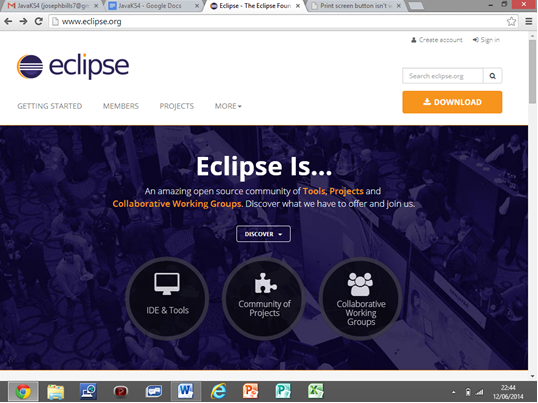
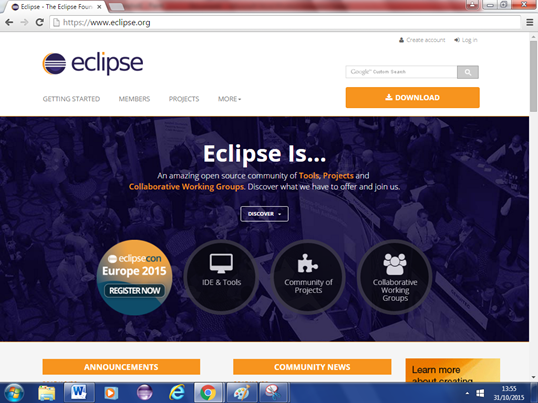
changes screenshots to not have awful tabs open

diff --git a/.c9/metadata/workspace/styles/index.scss b/.c9/metadata/workspace/styles/index.scss
@@ -1,0 +1,1 @@
+{"filter":false,"title":"index.scss","tooltip":"/styles/index.scss","undoManager":{"mark":-1,"position":-1,"stack":[]},"ace":{"folds":[],"scrolltop":3240,"scrollleft":0,"selection":{"start":{"row":0,"column":0},"end":{"row":0,"column":0},"isBackwards":false},"options":{"guessTabSize":true,"useWrapMode":false,"wrapToView":true},"firstLineState":{"row":230,"state":"start","mode":"ace/mode/scss"}},"timestamp":1408192288473,"hash":"076abdf336d47e67d0104e0f8e8e0f36cf829f92"}

diff --git a/.c9/metadata/workspace/src/index.html b/.c9/metadata/workspace/src/index.html
@@ -1,0 +1,1 @@
+{"filter":false,"title":"index.html","tooltip":"/src/index.html","undoManager":{"mark":-1,"position":-1,"stack":[]},"ace":{"folds":[],"scrolltop":0,"scrollleft":0,"selection":{"start":{"row":0,"column":0},"end":{"row":0,"column":0},"isBackwards":false},"options":{"guessTabSize":true,"useWrapMode":false,"wrapToView":true},"firstLineState":0},"timestamp":1446299514792,"hash":"33d2f9c46fa179fea69bf21c0491e3955c0bfa29"}

diff --git a/.c9/metadata/workspace/src/en/Chapter-I/Part I: Installation.md b/.c9/metadata/workspace/src/en/Chapter-I/Part I: Installation.md
@@ -1,0 +1,1 @@
+{"filter":false,"title":"Part I: Installation.md","tooltip":"/src/en/Chapter-I/Part I: Installation.md","undoManager":{"mark":100,"position":100,"stack":[[{"start":{"row":15,"column":91},"end":{"row":15,"column":92},"action":"remove","lines":["r"],"id":88}],[{"start":{"row":15,"column":90},"end":{"row":15,"column":91},"action":"remove","lines":["w"],"id":89}],[{"start":{"row":15,"column":89},"end":{"row":15,"column":90},"action":"remove","lines":[" "],"id":90}],[{"start":{"row":15,"column":88},"end":{"row":15,"column":89},"action":"remove","lines":["f"],"id":91}],[{"start":{"row":15,"column":87},"end":{"row":15,"column":88},"action":"remove","lines":["o"],"id":92}],[{"start":{"row":15,"column":86},"end":{"row":15,"column":87},"action":"remove","lines":[" "],"id":93}],[{"start":{"row":15,"column":85},"end":{"row":15,"column":86},"action":"remove","lines":["e"],"id":94}],[{"start":{"row":15,"column":84},"end":{"row":15,"column":85},"action":"remove","lines":["m"],"id":95}],[{"start":{"row":15,"column":83},"end":{"row":15,"column":84},"action":"remove","lines":["i"],"id":96}],[{"start":{"row":15,"column":82},"end":{"row":15,"column":83},"action":"remove","lines":["t"],"id":97}],[{"start":{"row":15,"column":81},"end":{"row":15,"column":82},"action":"remove","lines":[" "],"id":98}],[{"start":{"row":15,"column":80},"end":{"row":15,"column":81},"action":"remove","lines":["e"],"id":99}],[{"start":{"row":15,"column":79},"end":{"row":15,"column":80},"action":"remove","lines":["h"],"id":100}],[{"start":{"row":15,"column":78},"end":{"row":15,"column":79},"action":"remove","lines":["t"],"id":101}],[{"start":{"row":15,"column":77},"end":{"row":15,"column":78},"action":"remove","lines":[" "],"id":102}],[{"start":{"row":15,"column":76},"end":{"row":15,"column":77},"action":"remove","lines":["t"],"id":103}],[{"start":{"row":15,"column":75},"end":{"row":15,"column":76},"action":"remove","lines":["a"],"id":104}],[{"start":{"row":15,"column":74},"end":{"row":15,"column":75},"action":"remove","lines":[" "],"id":105}],[{"start":{"row":15,"column":73},"end":{"row":15,"column":74},"action":"remove","lines":["n"],"id":106}],[{"start":{"row":15,"column":72},"end":{"row":15,"column":73},"action":"remove","lines":["o"],"id":107}],[{"start":{"row":15,"column":71},"end":{"row":15,"column":72},"action":"remove","lines":["i"],"id":108}],[{"start":{"row":15,"column":70},"end":{"row":15,"column":71},"action":"remove","lines":["s"],"id":109}],[{"start":{"row":15,"column":69},"end":{"row":15,"column":70},"action":"remove","lines":["r"],"id":110}],[{"start":{"row":15,"column":68},"end":{"row":15,"column":69},"action":"remove","lines":["e"],"id":111}],[{"start":{"row":15,"column":67},"end":{"row":15,"column":68},"action":"remove","lines":["v"],"id":112}],[{"start":{"row":15,"column":66},"end":{"row":15,"column":67},"action":"remove","lines":[" "],"id":113}],[{"start":{"row":15,"column":65},"end":{"row":15,"column":66},"action":"remove","lines":["t"],"id":114}],[{"start":{"row":15,"column":64},"end":{"row":15,"column":65},"action":"remove","lines":["s"],"id":115}],[{"start":{"row":15,"column":63},"end":{"row":15,"column":64},"action":"remove","lines":["e"],"id":116}],[{"start":{"row":15,"column":62},"end":{"row":15,"column":63},"action":"remove","lines":["t"],"id":117}],[{"start":{"row":15,"column":61},"end":{"row":15,"column":62},"action":"remove","lines":["a"],"id":118}],[{"start":{"row":15,"column":60},"end":{"row":15,"column":61},"action":"remove","lines":["l"],"id":119}],[{"start":{"row":15,"column":59},"end":{"row":15,"column":60},"action":"remove","lines":[" "],"id":120}],[{"start":{"row":15,"column":58},"end":{"row":15,"column":59},"action":"remove","lines":["e"],"id":121}],[{"start":{"row":15,"column":57},"end":{"row":15,"column":58},"action":"remove","lines":["h"],"id":122}],[{"start":{"row":15,"column":56},"end":{"row":15,"column":57},"action":"remove","lines":["t"],"id":123}],[{"start":{"row":15,"column":55},"end":{"row":15,"column":56},"action":"remove","lines":[" "],"id":124}],[{"start":{"row":15,"column":54},"end":{"row":15,"column":55},"action":"remove","lines":[","],"id":125}],[{"start":{"row":23,"column":69},"end":{"row":23,"column":70},"action":"insert","lines":[","],"id":126}],[{"start":{"row":23,"column":70},"end":{"row":23,"column":71},"action":"insert","lines":[" "],"id":127}],[{"start":{"row":23,"column":71},"end":{"row":23,"column":72},"action":"insert","lines":["o"],"id":128}],[{"start":{"row":23,"column":72},"end":{"row":23,"column":73},"action":"insert","lines":["r"],"id":129}],[{"start":{"row":23,"column":73},"end":{"row":23,"column":74},"action":"insert","lines":[" "],"id":130}],[{"start":{"row":23,"column":74},"end":{"row":23,"column":75},"action":"insert","lines":["d"],"id":131}],[{"start":{"row":23,"column":75},"end":{"row":23,"column":76},"action":"insert","lines":["o"],"id":132}],[{"start":{"row":23,"column":76},"end":{"row":23,"column":77},"action":"insert","lines":[" "],"id":133}],[{"start":{"row":23,"column":77},"end":{"row":23,"column":78},"action":"insert","lines":["t"],"id":134}],[{"start":{"row":23,"column":78},"end":{"row":23,"column":79},"action":"insert","lines":["h"],"id":135}],[{"start":{"row":23,"column":79},"end":{"row":23,"column":80},"action":"insert","lines":["e"],"id":136}],[{"start":{"row":23,"column":80},"end":{"row":23,"column":81},"action":"insert","lines":[" "],"id":137}],[{"start":{"row":23,"column":81},"end":{"row":23,"column":82},"action":"insert","lines":["s"],"id":138}],[{"start":{"row":23,"column":82},"end":{"row":23,"column":83},"action":"insert","lines":["a"],"id":139}],[{"start":{"row":23,"column":83},"end":{"row":23,"column":84},"action":"insert","lines":["m"],"id":140}],[{"start":{"row":23,"column":84},"end":{"row":23,"column":85},"action":"insert","lines":["e"],"id":141}],[{"start":{"row":23,"column":85},"end":{"row":23,"column":86},"action":"insert","lines":[" "],"id":142}],[{"start":{"row":23,"column":86},"end":{"row":23,"column":87},"action":"insert","lines":["f"],"id":143}],[{"start":{"row":23,"column":87},"end":{"row":23,"column":88},"action":"insert","lines":["o"],"id":144}],[{"start":{"row":23,"column":88},"end":{"row":23,"column":89},"action":"insert","lines":["r"],"id":145}],[{"start":{"row":23,"column":89},"end":{"row":23,"column":90},"action":"insert","lines":[" "],"id":146}],[{"start":{"row":23,"column":90},"end":{"row":23,"column":91},"action":"insert","lines":["w"],"id":147}],[{"start":{"row":23,"column":91},"end":{"row":23,"column":92},"action":"insert","lines":["h"],"id":148}],[{"start":{"row":23,"column":92},"end":{"row":23,"column":93},"action":"insert","lines":["i"],"id":149}],[{"start":{"row":23,"column":93},"end":{"row":23,"column":94},"action":"insert","lines":["c"],"id":150}],[{"start":{"row":23,"column":94},"end":{"row":23,"column":95},"action":"insert","lines":["h"],"id":151}],[{"start":{"row":23,"column":95},"end":{"row":23,"column":96},"action":"insert","lines":["e"],"id":152}],[{"start":{"row":23,"column":96},"end":{"row":23,"column":97},"action":"insert","lines":["v"],"id":153}],[{"start":{"row":23,"column":97},"end":{"row":23,"column":98},"action":"insert","lines":["e"],"id":154}],[{"start":{"row":23,"column":98},"end":{"row":23,"column":99},"action":"insert","lines":["r"],"id":155}],[{"start":{"row":23,"column":99},"end":{"row":23,"column":100},"action":"insert","lines":[" "],"id":156}],[{"start":{"row":23,"column":100},"end":{"row":23,"column":101},"action":"insert","lines":["c"],"id":157}],[{"start":{"row":23,"column":101},"end":{"row":23,"column":102},"action":"insert","lines":["o"],"id":158}],[{"start":{"row":23,"column":102},"end":{"row":23,"column":103},"action":"insert","lines":["u"],"id":159}],[{"start":{"row":23,"column":103},"end":{"row":23,"column":104},"action":"insert","lines":["n"],"id":160}],[{"start":{"row":23,"column":104},"end":{"row":23,"column":105},"action":"insert","lines":["t"],"id":161}],[{"start":{"row":23,"column":105},"end":{"row":23,"column":106},"action":"insert","lines":["r"],"id":162}],[{"start":{"row":23,"column":106},"end":{"row":23,"column":107},"action":"insert","lines":["y"],"id":163}],[{"start":{"row":23,"column":107},"end":{"row":23,"column":108},"action":"insert","lines":[" "],"id":164}],[{"start":{"row":23,"column":108},"end":{"row":23,"column":109},"action":"insert","lines":["t"],"id":165}],[{"start":{"row":23,"column":108},"end":{"row":23,"column":109},"action":"remove","lines":["t"],"id":166}],[{"start":{"row":23,"column":108},"end":{"row":23,"column":109},"action":"insert","lines":["y"],"id":167}],[{"start":{"row":23,"column":109},"end":{"row":23,"column":110},"action":"insert","lines":["o"],"id":168}],[{"start":{"row":23,"column":110},"end":{"row":23,"column":111},"action":"insert","lines":["u"],"id":169}],[{"start":{"row":23,"column":111},"end":{"row":23,"column":112},"action":"insert","lines":[" "],"id":170}],[{"start":{"row":23,"column":112},"end":{"row":23,"column":113},"action":"insert","lines":["a"],"id":171}],[{"start":{"row":23,"column":113},"end":{"row":23,"column":114},"action":"insert","lines":["r"],"id":172}],[{"start":{"row":23,"column":114},"end":{"row":23,"column":115},"action":"insert","lines":["e"],"id":173}],[{"start":{"row":23,"column":115},"end":{"row":23,"column":116},"action":"insert","lines":[" "],"id":174}],[{"start":{"row":23,"column":116},"end":{"row":23,"column":117},"action":"insert","lines":["i"],"id":175}],[{"start":{"row":23,"column":117},"end":{"row":23,"column":118},"action":"insert","lines":["n"],"id":176}],[{"start":{"row":17,"column":60},"end":{"row":17,"column":61},"action":"remove","lines":["e"],"id":177},{"start":{"row":17,"column":60},"end":{"row":17,"column":61},"action":"insert","lines":["E"]}],[{"start":{"row":15,"column":11},"end":{"row":15,"column":12},"action":"remove","lines":["e"],"id":178},{"start":{"row":15,"column":11},"end":{"row":15,"column":12},"action":"insert","lines":["E"]}],[{"start":{"row":15,"column":10},"end":{"row":15,"column":11},"action":"remove","lines":["\""],"id":179},{"start":{"row":15,"column":10},"end":{"row":15,"column":11},"action":"insert","lines":["*"]}],[{"start":{"row":15,"column":11},"end":{"row":15,"column":12},"action":"insert","lines":["*"],"id":180}],[{"start":{"row":15,"column":32},"end":{"row":15,"column":33},"action":"remove","lines":["\""],"id":181},{"start":{"row":15,"column":32},"end":{"row":15,"column":33},"action":"insert","lines":["*"]}],[{"start":{"row":15,"column":33},"end":{"row":15,"column":34},"action":"insert","lines":["*"],"id":182}],[{"start":{"row":23,"column":26},"end":{"row":23,"column":27},"action":"remove","lines":["\""],"id":183}],[{"start":{"row":23,"column":26},"end":{"row":23,"column":27},"action":"insert","lines":["*"],"id":184}],[{"start":{"row":23,"column":27},"end":{"row":23,"column":28},"action":"insert","lines":["*"],"id":185}],[{"start":{"row":23,"column":69},"end":{"row":23,"column":70},"action":"remove","lines":["\""],"id":186}],[{"start":{"row":23,"column":69},"end":{"row":23,"column":70},"action":"insert","lines":["*"],"id":187}],[{"start":{"row":23,"column":70},"end":{"row":23,"column":71},"action":"insert","lines":["*"],"id":188}]]},"ace":{"folds":[],"scrolltop":180,"scrollleft":0,"selection":{"start":{"row":23,"column":71},"end":{"row":23,"column":71},"isBackwards":false},"options":{"guessTabSize":true,"useWrapMode":false,"wrapToView":true},"firstLineState":{"row":11,"state":"start","mode":"ace/mode/markdown"}},"timestamp":1446301333416,"hash":"1e893a8e1dbcdfaf5ad542427903642ae9e71ca9"}

diff --git a/.c9/metadata/workspace/src/en/Chapter-I/Part IV: Arithmetic.md b/.c9/metadata/workspace/src/en/Chapter-I/Part IV: Arithmetic.md
@@ -1,0 +1,1 @@
+{"filter":false,"title":"Part IV: Arithmetic.md","tooltip":"/src/en/Chapter-I/Part IV: Arithmetic.md","undoManager":{"mark":57,"position":57,"stack":[[{"group":"doc","deltas":[{"action":"removeText","range":{"start":{"row":158,"column":1},"end":{"row":158,"column":22}},"text":"So, what is a method?"},{"action":"insertText","range":{"start":{"row":158,"column":1},"end":{"row":158,"column":2}},"text":"L"}]}],[{"group":"doc","deltas":[{"action":"insertText","range":{"start":{"row":158,"column":2},"end":{"row":158,"column":3}},"text":"e"}]}],[{"group":"doc","deltas":[{"action":"insertText","range":{"start":{"row":158,"column":3},"end":{"row":158,"column":4}},"text":"t"}]}],[{"group":"doc","deltas":[{"action":"insertText","range":{"start":{"row":158,"column":4},"end":{"row":158,"column":5}},"text":"'"}]}],[{"group":"doc","deltas":[{"action":"insertText","range":{"start":{"row":158,"column":5},"end":{"row":158,"column":6}},"text":"s"}]}],[{"group":"doc","deltas":[{"action":"insertText","range":{"start":{"row":158,"column":6},"end":{"row":158,"column":7}},"text":" "}]}],[{"group":"doc","deltas":[{"action":"insertText","range":{"start":{"row":158,"column":7},"end":{"row":158,"column":8}},"text":"g"}]}],[{"group":"doc","deltas":[{"action":"insertText","range":{"start":{"row":158,"column":8},"end":{"row":158,"column":9}},"text":"o"}]}],[{"group":"doc","deltas":[{"action":"insertText","range":{"start":{"row":158,"column":9},"end":{"row":158,"column":10}},"text":" "}]}],[{"group":"doc","deltas":[{"action":"insertText","range":{"start":{"row":158,"column":10},"end":{"row":158,"column":11}},"text":"f"}]}],[{"group":"doc","deltas":[{"action":"insertText","range":{"start":{"row":158,"column":11},"end":{"row":158,"column":12}},"text":"i"}]}],[{"group":"doc","deltas":[{"action":"insertText","range":{"start":{"row":158,"column":12},"end":{"row":158,"column":13}},"text":"n"}]}],[{"group":"doc","deltas":[{"action":"insertText","range":{"start":{"row":158,"column":13},"end":{"row":158,"column":14}},"text":"d"}]}],[{"group":"doc","deltas":[{"action":"insertText","range":{"start":{"row":158,"column":14},"end":{"row":158,"column":15}},"text":" "}]}],[{"group":"doc","deltas":[{"action":"insertText","range":{"start":{"row":158,"column":15},"end":{"row":158,"column":16}},"text":"a"}]}],[{"group":"doc","deltas":[{"action":"insertText","range":{"start":{"row":158,"column":16},"end":{"row":158,"column":17}},"text":"r"}]}],[{"group":"doc","deltas":[{"action":"insertText","range":{"start":{"row":158,"column":17},"end":{"row":158,"column":18}},"text":"r"}]}],[{"group":"doc","deltas":[{"action":"insertText","range":{"start":{"row":158,"column":18},"end":{"row":158,"column":19}},"text":"a"}]}],[{"group":"doc","deltas":[{"action":"insertText","range":{"start":{"row":158,"column":19},"end":{"row":158,"column":20}},"text":"y"}]}],[{"group":"doc","deltas":[{"action":"insertText","range":{"start":{"row":158,"column":20},"end":{"row":158,"column":21}},"text":"s"}]}],[{"group":"doc","deltas":[{"action":"removeText","range":{"start":{"row":158,"column":20},"end":{"row":158,"column":21}},"text":"s"}]}],[{"group":"doc","deltas":[{"action":"removeText","range":{"start":{"row":158,"column":19},"end":{"row":158,"column":20}},"text":"y"}]}],[{"group":"doc","deltas":[{"action":"removeText","range":{"start":{"row":158,"column":18},"end":{"row":158,"column":19}},"text":"a"}]}],[{"group":"doc","deltas":[{"action":"removeText","range":{"start":{"row":158,"column":17},"end":{"row":158,"column":18}},"text":"r"},{"action":"removeText","range":{"start":{"row":158,"column":16},"end":{"row":158,"column":17}},"text":"r"}]}],[{"group":"doc","deltas":[{"action":"removeText","range":{"start":{"row":158,"column":15},"end":{"row":158,"column":16}},"text":"a"},{"action":"removeText","range":{"start":{"row":158,"column":14},"end":{"row":158,"column":15}},"text":" "}]}],[{"group":"doc","deltas":[{"action":"removeText","range":{"start":{"row":158,"column":13},"end":{"row":158,"column":14}},"text":"d"}]}],[{"group":"doc","deltas":[{"action":"removeText","range":{"start":{"row":158,"column":12},"end":{"row":158,"column":13}},"text":"n"}]}],[{"group":"doc","deltas":[{"action":"removeText","range":{"start":{"row":158,"column":11},"end":{"row":158,"column":12}},"text":"i"}]}],[{"group":"doc","deltas":[{"action":"removeText","range":{"start":{"row":158,"column":10},"end":{"row":158,"column":11}},"text":"f"}]}],[{"group":"doc","deltas":[{"action":"insertText","range":{"start":{"row":158,"column":10},"end":{"row":158,"column":11}},"text":"s"}]}],[{"group":"doc","deltas":[{"action":"insertText","range":{"start":{"row":158,"column":11},"end":{"row":158,"column":12}},"text":"e"}]}],[{"group":"doc","deltas":[{"action":"insertText","range":{"start":{"row":158,"column":12},"end":{"row":158,"column":13}},"text":"e"}]}],[{"group":"doc","deltas":[{"action":"insertText","range":{"start":{"row":158,"column":13},"end":{"row":158,"column":14}},"text":" "}]}],[{"group":"doc","deltas":[{"action":"insertText","range":{"start":{"row":158,"column":14},"end":{"row":158,"column":15}},"text":"s"}]}],[{"group":"doc","deltas":[{"action":"insertText","range":{"start":{"row":158,"column":15},"end":{"row":158,"column":16}},"text":"o"}]}],[{"group":"doc","deltas":[{"action":"insertText","range":{"start":{"row":158,"column":16},"end":{"row":158,"column":17}},"text":"e"}]}],[{"group":"doc","deltas":[{"action":"insertText","range":{"start":{"row":158,"column":17},"end":{"row":158,"column":18}},"text":"m"}]}],[{"group":"doc","deltas":[{"action":"insertText","range":{"start":{"row":158,"column":18},"end":{"row":158,"column":19}},"text":" "}]}],[{"group":"doc","deltas":[{"action":"removeText","range":{"start":{"row":158,"column":18},"end":{"row":158,"column":19}},"text":" "}]}],[{"group":"doc","deltas":[{"action":"removeText","range":{"start":{"row":158,"column":17},"end":{"row":158,"column":18}},"text":"m"}]}],[{"group":"doc","deltas":[{"action":"removeText","range":{"start":{"row":158,"column":16},"end":{"row":158,"column":17}},"text":"e"}]}],[{"group":"doc","deltas":[{"action":"insertText","range":{"start":{"row":158,"column":16},"end":{"row":158,"column":17}},"text":"m"}]}],[{"group":"doc","deltas":[{"action":"insertText","range":{"start":{"row":158,"column":17},"end":{"row":158,"column":18}},"text":"e"}]}],[{"group":"doc","deltas":[{"action":"insertText","range":{"start":{"row":158,"column":18},"end":{"row":158,"column":19}},"text":" "}]}],[{"group":"doc","deltas":[{"action":"insertText","range":{"start":{"row":158,"column":19},"end":{"row":158,"column":20}},"text":"a"}]}],[{"group":"doc","deltas":[{"action":"insertText","range":{"start":{"row":158,"column":20},"end":{"row":158,"column":21}},"text":"r"}]}],[{"group":"doc","deltas":[{"action":"insertText","range":{"start":{"row":158,"column":21},"end":{"row":158,"column":22}},"text":"r"}]}],[{"group":"doc","deltas":[{"action":"insertText","range":{"start":{"row":158,"column":22},"end":{"row":158,"column":23}},"text":"s"}]}],[{"group":"doc","deltas":[{"action":"removeText","range":{"start":{"row":158,"column":22},"end":{"row":158,"column":23}},"text":"s"}]}],[{"group":"doc","deltas":[{"action":"insertText","range":{"start":{"row":158,"column":22},"end":{"row":158,"column":23}},"text":"a"}]}],[{"group":"doc","deltas":[{"action":"insertText","range":{"start":{"row":158,"column":23},"end":{"row":158,"column":24}},"text":"y"}]}],[{"group":"doc","deltas":[{"action":"insertText","range":{"start":{"row":158,"column":24},"end":{"row":158,"column":25}},"text":"s"}]}],[{"group":"doc","deltas":[{"action":"removeText","range":{"start":{"row":158,"column":44},"end":{"row":158,"column":51}},"text":"Methods"},{"action":"insertText","range":{"start":{"row":158,"column":44},"end":{"row":158,"column":45}},"text":"A"}]}],[{"group":"doc","deltas":[{"action":"insertText","range":{"start":{"row":158,"column":45},"end":{"row":158,"column":46}},"text":"r"}]}],[{"group":"doc","deltas":[{"action":"insertText","range":{"start":{"row":158,"column":46},"end":{"row":158,"column":47}},"text":"r"}]}],[{"group":"doc","deltas":[{"action":"insertText","range":{"start":{"row":158,"column":47},"end":{"row":158,"column":48}},"text":"a"}]}],[{"group":"doc","deltas":[{"action":"insertText","range":{"start":{"row":158,"column":48},"end":{"row":158,"column":49}},"text":"y"}]}],[{"group":"doc","deltas":[{"action":"insertText","range":{"start":{"row":158,"column":49},"end":{"row":158,"column":50}},"text":"s"}]}]]},"ace":{"folds":[],"scrolltop":2016,"scrollleft":0,"selection":{"start":{"row":158,"column":50},"end":{"row":158,"column":50},"isBackwards":false},"options":{"guessTabSize":true,"useWrapMode":false,"wrapToView":true},"firstLineState":{"row":143,"state":"start","mode":"ace/mode/markdown"}},"timestamp":1408453059238,"hash":"5e87ff05850d68544198d9f5469a1396c665f632"}

diff --git a/.c9/metadata/workspace/src/en/Chapter-I/Part III: Variables.md b/.c9/metadata/workspace/src/en/Chapter-I/Part III: Variables.md
@@ -1,0 +1,1 @@
+{"filter":false,"title":"Part III: Variables.md","tooltip":"/src/en/Chapter-I/Part III: Variables.md","undoManager":{"mark":0,"position":0,"stack":[[{"group":"doc","deltas":[{"action":"removeText","range":{"start":{"row":59,"column":0},"end":{"row":59,"column":13}},"text":"You can also "},{"action":"removeLines","range":{"start":{"row":46,"column":0},"end":{"row":59,"column":0}},"nl":"\n","lines":["","```java","int age = 13;","String ageAsString = Integer.toString(age);","```","","You can convert a string to an integer by using `Integer.parseInt()`:","","```java","String ageAsString = \"13\";","int age = Integer.parseInt(ageAsString);","```",""]},{"action":"removeText","range":{"start":{"row":45,"column":8},"end":{"row":45,"column":70}},"text":"convert an integer to a string, by using `Integer.toString()`:"},{"action":"removeText","range":{"start":{"row":45,"column":8},"end":{"row":46,"column":0}},"text":"\n"},{"action":"insertText","range":{"start":{"row":52,"column":53},"end":{"row":52,"column":57}},"text":"int "},{"action":"removeText","range":{"start":{"row":52,"column":64},"end":{"row":52,"column":65}},"text":" "},{"action":"insertText","range":{"start":{"row":52,"column":64},"end":{"row":53,"column":0}},"text":"\n"},{"action":"insertLines","range":{"start":{"row":53,"column":0},"end":{"row":54,"column":0}},"lines":[""]},{"action":"insertText","range":{"start":{"row":54,"column":0},"end":{"row":54,"column":65}},"text":"You will learn how to convert between variables at a later point."},{"action":"removeText","range":{"start":{"row":63,"column":0},"end":{"row":63,"column":21}},"text":"As with an integer, y"},{"action":"insertText","range":{"start":{"row":63,"column":0},"end":{"row":63,"column":1}},"text":"Y"},{"action":"removeText","range":{"start":{"row":63,"column":16},"end":{"row":63,"column":18}},"text":"it"},{"action":"insertText","range":{"start":{"row":63,"column":16},"end":{"row":63,"column":24}},"text":"a double"},{"action":"insertText","range":{"start":{"row":63,"column":38},"end":{"row":63,"column":39}},"text":","},{"action":"removeText","range":{"start":{"row":71,"column":0},"end":{"row":71,"column":4}},"text":"With"},{"action":"removeLines","range":{"start":{"row":64,"column":0},"end":{"row":71,"column":0}},"nl":"\n","lines":["","```java","String piAsString = \"3.14159265359\";","double pi = Double.parseDouble(piAsString);","piAsString = Double.toString(pi);","```",""]},{"action":"removeText","range":{"start":{"row":63,"column":44},"end":{"row":63,"column":74}},"text":"a double, using the following:"},{"action":"removeText","range":{"start":{"row":63,"column":44},"end":{"row":64,"column":0}},"text":"\n"},{"action":"insertText","range":{"start":{"row":63,"column":44},"end":{"row":63,"column":108}},"text":"you will find out how to do that later. That is possible because"},{"action":"removeText","range":{"start":{"row":63,"column":111},"end":{"row":63,"column":113}},"text":"is"},{"action":"insertText","range":{"start":{"row":63,"column":111},"end":{"row":63,"column":112}},"text":"e"},{"action":"removeText","range":{"start":{"row":63,"column":120},"end":{"row":63,"column":158}},"text":"you can convert a double into a string"},{"action":"insertText","range":{"start":{"row":63,"column":120},"end":{"row":63,"column":156}},"text":"simply sets it to be a piece of text"},{"action":"removeText","range":{"start":{"row":63,"column":227},"end":{"row":63,"column":230}},"text":"may"},{"action":"insertText","range":{"start":{"row":63,"column":227},"end":{"row":63,"column":231}},"text":"will"},{"action":"removeText","range":{"start":{"row":63,"column":235},"end":{"row":63,"column":237}},"text":"th"},{"action":"insertText","range":{"start":{"row":63,"column":235},"end":{"row":63,"column":236}},"text":"f"},{"action":"removeText","range":{"start":{"row":63,"column":238},"end":{"row":63,"column":239}},"text":"k"},{"action":"insertText","range":{"start":{"row":63,"column":238},"end":{"row":63,"column":239}},"text":"d"},{"action":"removeText","range":{"start":{"row":63,"column":243},"end":{"row":63,"column":261}},"text":"that you could use"},{"action":"insertText","range":{"start":{"row":63,"column":243},"end":{"row":63,"column":267}},"text":"out how to do that using"},{"action":"insertText","range":{"start":{"row":63,"column":288},"end":{"row":63,"column":302}},"text":" in Chapter II"},{"action":"insertText","range":{"start":{"row":63,"column":317},"end":{"row":63,"column":322}},"text":"here "},{"action":"removeText","range":{"start":{"row":81,"column":0},"end":{"row":81,"column":39}},"text":"aliveAsString = Boolean.toString(alive)"},{"action":"removeLines","range":{"start":{"row":76,"column":0},"end":{"row":81,"column":0}},"nl":"\n","lines":["","```java","boolean myBoolean = true;","String aliveAsString = \"true\";","alive = Boolean.parseBoolean(aliveAsString); "]},{"action":"removeText","range":{"start":{"row":75,"column":74},"end":{"row":75,"column":130}},"text":"As before, you can convert between booleans and strings:"},{"action":"removeText","range":{"start":{"row":75,"column":74},"end":{"row":76,"column":0}},"text":"\n"},{"action":"insertText","range":{"start":{"row":75,"column":74},"end":{"row":75,"column":84}},"text":"That's it:"},{"action":"insertText","range":{"start":{"row":75,"column":84},"end":{"row":76,"column":0}},"text":"\n"},{"action":"insertLines","range":{"start":{"row":76,"column":0},"end":{"row":78,"column":0}},"lines":["","```java"]},{"action":"insertText","range":{"start":{"row":78,"column":0},"end":{"row":78,"column":24}},"text":"boolean myBoolean = true"},{"action":"removeText","range":{"start":{"row":84,"column":49},"end":{"row":84,"column":102}},"text":" as in `Integer.parseInt()` or `Double.parseDouble()`"},{"action":"removeLines","range":{"start":{"row":94,"column":0},"end":{"row":96,"column":0}},"nl":"\n","lines":["N.B. It is perfectly accceptable to use their static methods i.e. `Integer.parseInt()` etc, because they do not actually involve instantiating those classes (Part VIII). ",""]}]}]]},"ace":{"folds":[],"scrolltop":0,"scrollleft":0,"selection":{"start":{"row":0,"column":0},"end":{"row":0,"column":0},"isBackwards":false},"options":{"guessTabSize":true,"useWrapMode":false,"wrapToView":true},"firstLineState":0},"timestamp":1408455709084,"hash":"10f071cb8f5b7c7ba54310741a0f5b91174d6133"}

diff --git a/.c9/metadata/workspace/src/en/Chapter-III/Array Lists.md b/.c9/metadata/workspace/src/en/Chapter-III/Array Lists.md
@@ -1,0 +1,1 @@
+{"filter":false,"title":"Array Lists.md","tooltip":"/src/en/Chapter-III/Array Lists.md","undoManager":{"mark":40,"position":40,"stack":[[{"group":"doc","deltas":[{"action":"insertText","range":{"start":{"row":0,"column":0},"end":{"row":0,"column":1}},"text":"A"}]}],[{"group":"doc","deltas":[{"action":"insertText","range":{"start":{"row":0,"column":1},"end":{"row":0,"column":2}},"text":"r"}]}],[{"group":"doc","deltas":[{"action":"insertText","range":{"start":{"row":0,"column":2},"end":{"row":0,"column":3}},"text":"r"}]}],[{"group":"doc","deltas":[{"action":"insertText","range":{"start":{"row":0,"column":3},"end":{"row":0,"column":4}},"text":"a"}]}],[{"group":"doc","deltas":[{"action":"insertText","range":{"start":{"row":0,"column":4},"end":{"row":0,"column":5}},"text":"y"}]}],[{"group":"doc","deltas":[{"action":"insertText","range":{"start":{"row":0,"column":5},"end":{"row":0,"column":6}},"text":" "}]}],[{"group":"doc","deltas":[{"action":"insertText","range":{"start":{"row":0,"column":6},"end":{"row":0,"column":7}},"text":"L"}]}],[{"group":"doc","deltas":[{"action":"insertText","range":{"start":{"row":0,"column":7},"end":{"row":0,"column":8}},"text":"i"}]}],[{"group":"doc","deltas":[{"action":"insertText","range":{"start":{"row":0,"column":8},"end":{"row":0,"column":9}},"text":"s"}]}],[{"group":"doc","deltas":[{"action":"insertText","range":{"start":{"row":0,"column":9},"end":{"row":0,"column":10}},"text":"t"}]}],[{"group":"doc","deltas":[{"action":"insertText","range":{"start":{"row":0,"column":10},"end":{"row":0,"column":11}},"text":"s"}]}],[{"group":"doc","deltas":[{"action":"insertText","range":{"start":{"row":0,"column":11},"end":{"row":1,"column":0}},"text":"\n"}]}],[{"group":"doc","deltas":[{"action":"insertText","range":{"start":{"row":1,"column":0},"end":{"row":1,"column":1}},"text":"="}]}],[{"group":"doc","deltas":[{"action":"insertText","range":{"start":{"row":1,"column":1},"end":{"row":1,"column":2}},"text":"="}]}],[{"group":"doc","deltas":[{"action":"insertText","range":{"start":{"row":1,"column":2},"end":{"row":1,"column":3}},"text":"="}]}],[{"group":"doc","deltas":[{"action":"removeText","range":{"start":{"row":1,"column":0},"end":{"row":1,"column":3}},"text":"==="},{"action":"insertText","range":{"start":{"row":1,"column":0},"end":{"row":2,"column":0}},"text":"\n"}]}],[{"group":"doc","deltas":[{"action":"insertText","range":{"start":{"row":2,"column":0},"end":{"row":3,"column":0}},"text":"\n"}]}],[{"group":"doc","deltas":[{"action":"removeLines","range":{"start":{"row":2,"column":0},"end":{"row":3,"column":0}},"nl":"\n","lines":[""]}]}],[{"group":"doc","deltas":[{"action":"removeLines","range":{"start":{"row":1,"column":0},"end":{"row":2,"column":0}},"nl":"\n","lines":[""]}]}],[{"group":"doc","deltas":[{"action":"removeText","range":{"start":{"row":0,"column":11},"end":{"row":1,"column":0}},"text":"\n"}]}],[{"group":"doc","deltas":[{"action":"insertText","range":{"start":{"row":0,"column":11},"end":{"row":1,"column":0}},"text":"\n"}]}],[{"group":"doc","deltas":[{"action":"insertText","range":{"start":{"row":1,"column":0},"end":{"row":1,"column":1}},"text":"="}]}],[{"group":"doc","deltas":[{"action":"insertText","range":{"start":{"row":1,"column":1},"end":{"row":1,"column":2}},"text":"="}]}],[{"group":"doc","deltas":[{"action":"insertText","range":{"start":{"row":1,"column":2},"end":{"row":1,"column":3}},"text":"="}]}],[{"group":"doc","deltas":[{"action":"insertText","range":{"start":{"row":1,"column":3},"end":{"row":2,"column":0}},"text":"\n"}]}],[{"group":"doc","deltas":[{"action":"insertText","range":{"start":{"row":2,"column":0},"end":{"row":3,"column":0}},"text":"\n"}]}],[{"group":"doc","deltas":[{"action":"insertText","range":{"start":{"row":3,"column":0},"end":{"row":3,"column":1}},"text":"A"}]}],[{"group":"doc","deltas":[{"action":"insertText","range":{"start":{"row":3,"column":1},"end":{"row":3,"column":2}},"text":"r"}]}],[{"group":"doc","deltas":[{"action":"insertText","range":{"start":{"row":3,"column":2},"end":{"row":3,"column":3}},"text":"r"}]}],[{"group":"doc","deltas":[{"action":"insertText","range":{"start":{"row":3,"column":3},"end":{"row":3,"column":4}},"text":"a"}]}],[{"group":"doc","deltas":[{"action":"insertText","range":{"start":{"row":3,"column":4},"end":{"row":3,"column":5}},"text":"y"}]}],[{"group":"doc","deltas":[{"action":"insertText","range":{"start":{"row":3,"column":5},"end":{"row":3,"column":6}},"text":" "}]}],[{"group":"doc","deltas":[{"action":"insertText","range":{"start":{"row":3,"column":6},"end":{"row":3,"column":7}},"text":"L"}]}],[{"group":"doc","deltas":[{"action":"insertText","range":{"start":{"row":3,"column":7},"end":{"row":3,"column":8}},"text":"i"}]}],[{"group":"doc","deltas":[{"action":"insertText","range":{"start":{"row":3,"column":8},"end":{"row":3,"column":9}},"text":"s"}]}],[{"group":"doc","deltas":[{"action":"insertText","range":{"start":{"row":3,"column":9},"end":{"row":3,"column":10}},"text":"t"}]}],[{"group":"doc","deltas":[{"action":"insertText","range":{"start":{"row":3,"column":10},"end":{"row":3,"column":11}},"text":"s"}]}],[{"group":"doc","deltas":[{"action":"insertText","range":{"start":{"row":3,"column":11},"end":{"row":3,"column":12}},"text":" "}]}],[{"group":"doc","deltas":[{"action":"insertText","range":{"start":{"row":3,"column":12},"end":{"row":3,"column":13}},"text":"a"}]}],[{"group":"doc","deltas":[{"action":"insertText","range":{"start":{"row":3,"column":13},"end":{"row":3,"column":14}},"text":"r"}]}],[{"group":"doc","deltas":[{"action":"insertText","range":{"start":{"row":3,"column":14},"end":{"row":3,"column":15}},"text":"e"}]}]]},"ace":{"folds":[],"scrolltop":0,"scrollleft":0,"selection":{"start":{"row":3,"column":15},"end":{"row":3,"column":15},"isBackwards":false},"options":{"guessTabSize":true,"useWrapMode":false,"wrapToView":true},"firstLineState":0},"timestamp":1409760907822,"hash":"e1332609b2838a4261ba48fb020c21f2a96ded00"}

diff --git a/.c9/metadata/workspace/src/en/Chapter-V/Part II: Complex Interfaces.md b/.c9/metadata/workspace/src/en/Chapter-V/Part II: Complex Interfaces.md
@@ -1,0 +1,1 @@
+{"filter":false,"title":"Part II: Complex Interfaces.md","tooltip":"/src/en/Chapter-V/Part II: Complex Interfaces.md","undoManager":{"mark":0,"position":0,"stack":[[{"group":"doc","deltas":[{"action":"removeLines","range":{"start":{"row":235,"column":0},"end":{"row":260,"column":0}},"nl":"\n","lines":["## Cursor","This part is labelled as 'Complex Interfaces', and I've tried to keep it that way by only including interfaces themselves. However, it is very difficult to classify this thing. Ergo, I have taken the dhort route, and put it here. `Cursor` simply sets the cursor you are using to be a default shape, or a custom shape if you so wish. Bear in ming that there will be no pictures here because, as you can see above, you don't actually see my cursor. As a result it is completely pointless to look at a button and not be able to see the use. Anyway, you can change a cursor in the following way:","","```java","setCursor(Cursor.getPredefinedCursor(Cursor.WAIT_CURSOR));","```","","Bear in mind that `WAIT_CURSOR` is not the only cursor form. Oracle are kind enough to supply more predefined ones that that. Here is a list of them (this is not exhaustive, but is close):","","- CROSSHAIR_CURSOR","- DEFAULT_CURSOR","- E_RESIZE_CURSOR","- HAND_CURSOR","- MOVE_CURSOR","- N_RESIZE_CURSOR","- NE_RESIZE_CURSOR","- NW_RESIZE_CURSOR","- S_RESIZE_CURSOR","- SE_RESIZE_CURSOR","- SW_RESIZE_CURSOR","- TEXT_CURSOR","- W_RESIZE_CURSOR","- WAIT_CURSOR","","Just in case you are worried about it permanently changing your cursor - it only lasts for when your cursor is hovering over the JFrame, so changes back when you mouse out of the frame. It also only lasts while the program is running."]}]}]]},"ace":{"folds":[],"scrolltop":3080,"scrollleft":0,"selection":{"start":{"row":235,"column":0},"end":{"row":235,"column":0},"isBackwards":false},"options":{"guessTabSize":true,"useWrapMode":false,"wrapToView":true},"firstLineState":0},"timestamp":1409999206881,"hash":"e30279106e39a58d55e782279b91565dac18f242"}

diff --git a/src/en/Chapter-I/Part I: Installation.md b/src/en/Chapter-I/Part I: Installation.md
@@ -9,19 +9,19 @@ First, head over to Eclipse's website, which looks like this:
 
 ![A screenshot of the Eclipse website front page](../../Images/Chapter-I/Introduction/Eclipse_website_screenshot1.png)
 
-Next click the orange downloads button to take you to:
+Next, search in the searchbox for **Eclipse standard**:
 
-![A screenshot of the first page of downloads](../../Images/Chapter-I/Introduction/Eclipse_website_screenshot2.png)
+![A screenshot of the results](../../Images/Chapter-I/Introduction/Eclipse_website_screenshot2.png)
 
-Now click "eclipse standard", the first one listed, the latest version at the time of writing is version 4.4:
+Now click **Eclipse standard 4.4**, the first one listed:
 
-![Eclipse standard 4.4](../../Images/Chapter-I/Introduction/eclipse_standard.png)
+![Eclipse standard 4.4](../../Images/Chapter-I/Introduction/Eclipse_standard.png)
 
 Now under download links, you should see your OS (Operating System). Click it:
 
 ![Know your computer version](../../Images/Chapter-I/Introduction/Eclipse_download_links.png)
 
-Next, click where it says "[United Kingdom] UK Mirror Service (http)":
+Next, click where it says **[United Kingdom] UK Mirror Service (http)**, or do the same for whichever country you are in:
 
 ![This was made in the UK](../../Images/Chapter-I/Introduction/Eclipse_UK_mirror_service.png)
 

diff --git a/.c9/metadata/workspace/src/en/Chapter-V/Part III: Extra Things.md b/.c9/metadata/workspace/src/en/Chapter-V/Part III: Extra Things.md
@@ -1,0 +1,1 @@
+{"filter":false,"title":"Part III: Extra Things.md","tooltip":"/src/en/Chapter-V/Part III: Extra Things.md","undoManager":{"mark":0,"position":0,"stack":[[{"group":"doc","deltas":[{"action":"removeText","range":{"start":{"row":3,"column":168},"end":{"row":3,"column":169}},"text":"e"},{"action":"insertText","range":{"start":{"row":3,"column":168},"end":{"row":3,"column":169}},"text":"t"},{"action":"removeText","range":{"start":{"row":3,"column":286},"end":{"row":3,"column":296}},"text":"as follows"},{"action":"insertText","range":{"start":{"row":3,"column":286},"end":{"row":3,"column":290}},"text":"here"}]}]]},"ace":{"folds":[],"scrolltop":0,"scrollleft":1422,"selection":{"start":{"row":3,"column":291},"end":{"row":3,"column":291},"isBackwards":false},"options":{"guessTabSize":true,"useWrapMode":false,"wrapToView":true},"firstLineState":0},"timestamp":1411209326000,"hash":"b4b90c9b83b9f5038b7fb55db1671e7ff78f7da3"}

diff --git a/.c9/metadata/workspace/src/en/Chapter-I/Part VI: Loops.md b/.c9/metadata/workspace/src/en/Chapter-I/Part VI: Loops.md
@@ -1,0 +1,1 @@
+{"filter":false,"title":"Part VI: Loops.md","tooltip":"/src/en/Chapter-I/Part VI: Loops.md","undoManager":{"mark":0,"position":0,"stack":[[{"group":"doc","deltas":[{"action":"removeText","range":{"start":{"row":121,"column":68},"end":{"row":121,"column":69}},"text":"I"}]}]]},"ace":{"folds":[],"scrolltop":1498,"scrollleft":0,"selection":{"start":{"row":121,"column":68},"end":{"row":121,"column":68},"isBackwards":false},"options":{"guessTabSize":true,"useWrapMode":false,"wrapToView":true},"firstLineState":{"row":143,"mode":"ace/mode/markdown"}},"timestamp":1408453073188,"hash":"f8a7f15fe7c9ee7849bbd3f1d3cbd874713869f2"}

diff --git a/.c9/metadata/workspace/src/en/Chapter-I/Part V: Arrays.md b/.c9/metadata/workspace/src/en/Chapter-I/Part V: Arrays.md
@@ -1,0 +1,1 @@
+{"filter":false,"title":"Part V: Arrays.md","tooltip":"/src/en/Chapter-I/Part V: Arrays.md","undoManager":{"mark":0,"position":0,"stack":[[{"group":"doc","deltas":[{"action":"removeText","range":{"start":{"row":81,"column":42},"end":{"row":81,"column":43}},"text":"I"}]}]]},"ace":{"folds":[],"scrolltop":938,"scrollleft":0,"selection":{"start":{"row":81,"column":42},"end":{"row":81,"column":42},"isBackwards":false},"options":{"guessTabSize":true,"useWrapMode":false,"wrapToView":true},"firstLineState":{"row":143,"mode":"ace/mode/markdown"}},"timestamp":1408453066841,"hash":"b733d24ba37a069556bcd39ebf30fffbff47bccd"}

diff --git a/.c9/metadata/workspace/src/en/Chapter-IV/Addendum I: History of Object-Oriented Programming.md b/.c9/metadata/workspace/src/en/Chapter-IV/Addendum I: History of Object-Oriented Programming.md
@@ -1,0 +1,1 @@
+{"filter":false,"title":"Addendum I: History of Object-Oriented Programming.md","tooltip":"/src/en/Chapter-IV/Addendum I: History of Object-Oriented Programming.md","undoManager":{"mark":-1,"position":-1,"stack":[]},"ace":{"folds":[],"scrolltop":0,"scrollleft":0,"selection":{"start":{"row":0,"column":0},"end":{"row":0,"column":0},"isBackwards":false},"options":{"guessTabSize":true,"useWrapMode":false,"wrapToView":true},"firstLineState":0},"timestamp":1409485318410,"hash":"96c92f7e111ff71a5d338b6d79e824d5014631b6"}
